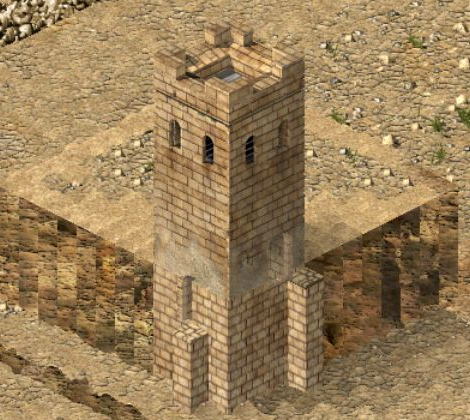
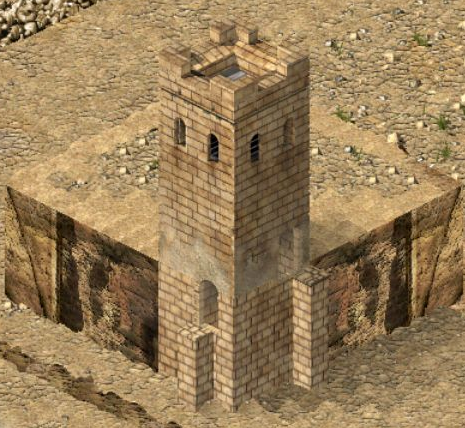
Record native cliff and doorway acceptance screenshots

diff --git a/docs/r023/README.md b/docs/r023/README.md
@@ -1,61 +1,17 @@
-# Tower doors: native examples
+# Tower doors: native examples
 
-The foreground square tower is the subject of the first two images. Each side
-chooses its highest connected wall, then the nearest connection to that side's
-centre among walls of that height. Doorways move along the face and vertically.
+Each side chooses its highest eligible connection. The connection nearest the centre breaks ties at that height. Doors follow the actual connection height and move along the face. At the extreme tiles, a doorway sits halfway between the outermost two tile positions, for4x4,5x5 and6x6 towers.
 
-Two high walls and one low wall connect to the same side. The nearer high wall
-at300,252 wins over the high wall at298,252 and the low wall at299,252.
+![Five-wide tower: half-tile inset at the outer connection](anchor-five.png)
 
-![Door at the nearer of the two high connections](nearer-high.png)
+![Round tower: doorway at the wall contact](anchor-round.png)
 
-After removing the selected high wall, the doorway follows the remaining high
-wall at298,252. The nearer low wall does not take priority. The camera moved
-between captures; compare the doorway with the connecting wall on the tower.
+Cliff-edge towers extend their existing wall masonry down the exposed face. Lower walls can supply doors in that masonry; bare terrain cannot.
 
-![Door follows the remaining off-centre high connection](farther-high.png)
+![Lower walls meet doors in the tower masonry](../store/tower-foundation.png)
 
-The smaller tower demonstrates independent sides: its high and low connections
-retain different doorway heights after loading another save.
+AI-built stair6 alone supplies a ground doorway. Raised stair1-5 are excluded, even when no other wall is present. In this native AI fixture, the left tower has stair6 and a ground doorway; the right tower has raised stair1 and no doorway.
 
-The high connection at the outermost east tile places its doorway half a tile
-inward. The low connection on the south side keeps its own height.
+![AI stair6 and raised-stair comparison](foundations/ai-stair6-current.png)
 
-![Outermost high connection inset from the tower corner](review-edge.png)
-
-A single stair6 connection supplies a doorway at ground level. Raised stair1–5
-are excluded, even when no other wall is present.
-
-![Ground-level doorway supplied by stair6 alone](review-stair6.png)
-
-![Raised stair connection without a false doorway](review-stairs.png)
-
-## AI-built stairs and a tower directly on the cliff edge
-
-The AI built both towers and their adjacent stairs from a prepared construction
-plan on initially empty tiles. On the left, stair6 alone creates the ground-level
-door. On the right, raised stair1 does not create a door. No wall supplies either
-doorway; stair6 is an AI construction tile, not a player-buildable stair option.
-
-![AI-built stair6 creates a ground door; raised stair1 does not](native-ai-stairs.png)
-
-The tower below stands directly at the plateau's corner. The high wall on the
-right and low wall on the left remain on lower ground. The exposed tower
-foundation now uses wall masonry, and both doors follow their connection heights.
-The outer high connection is inset half a tile. Terrain outside the footprint
-keeps its cliff texture.
-
-![Tower masonry and high/low doors below the tower base](foundations/rotation-0.png)
-
-![The same tower after a quarter turn](foundations/rotation-6.png)
-
-The AI also built these two towers on prepared elevated terrain. Stair6 alone
-supplies the ground door in the left foundation. The raised stair beside the
-right tower supplies no door. The fixture prepares terrain and an AI plan; the
-native AI places both towers and stairs after loading.
-
-![AI stair6 creates the lower foundation door; raised stair does not](foundations/ai-stair6.png)
-
-See [foundation validation](../../VALIDATION-TOWER-FOUNDATIONS.md) for exact
-revisions, fixture values, performance and limits. These are native captures,
-with no explanatory overlays or added in-game panels.
+[Current anchor, ordering, native tests and cost](../../VALIDATION-DOOR-DRAW-ORDER.md). Earlier screenshots in this directory are historical evidence, not the current alignment acceptance.

diff --git a/README.md b/README.md
@@ -3,8 +3,8 @@
 Seven optional fixes for Stronghold Crusader 1.41, using the game's existing
 controls, text areas and artwork.
 
-Version 0.1.1 adds concise descriptions and cropped screenshots to the Store and
-installed-extension viewers in all nine languages. Game patches are unchanged.
+The next patch corrects tower-door alignment and draw order, and completes cliff
+texture mapping across both faces. Updated native screenshots show the changes.
 See the [short description](locale/description-en.md).
 
 - **Show lobby map descriptions:** keeps custom descriptions visible when
@@ -60,20 +60,17 @@ Exposed cliffs beneath tower footprints use the current wall textures. Lower
 connections create doors at their own height where that masonry backs the door.
 Bare terrain and raised stairs do not supply doors.
 
-![Masonry under a cliff-edge tower with doors at the lower wall heights](docs/r023/foundations/rotation-0.png)
+![Masonry under a cliff-edge tower with doors at the lower wall heights](docs/store/tower-foundation.png)
 
-![AI-built stair6 alone creates a ground door in the left tower foundation](docs/r023/foundations/ai-stair6.png)
+![AI-built stair6 alone creates a ground door in the left tower foundation](docs/r023/foundations/ai-stair6-current.png)
 
-![The nearer of two high wall connections is selected](docs/r023/nearer-high.png)
+If the selected high connection is removed, the door follows another high
+connection before considering a lower one. The nearest-to-centre rule breaks
+ties only between connections at the same height.
 
-After removing that connection, the door follows the remaining high wall even
-though a low wall is nearer the centre. The camera moved between these captures.
-
-![The door follows the remaining off-centre high wall](docs/r023/farther-high.png)
-
-See [the native gallery](docs/r023/README.md) for the selected wall coordinates.
+See [the native gallery](docs/r023/README.md) for the half-tile inset on wider towers.
 Selection uses the game's existing connection refresh; warm drawing reads a
-cache without rescanning walls. The measured added draw cost was about 0.026 ms for
+cache without rescanning walls. The measured added draw cost was about 0.024 ms for
 1000 synthetic tower records. Foundation textures reuse the existing graphics
 refresh and drawing pass. See [foundation validation](VALIDATION-TOWER-FOUNDATIONS.md)
 for method and limits.
@@ -84,13 +81,13 @@ for method and limits.
 
 ### Cliff textures
 
-Cliff textures follow the direction of each face in all four map orientations.
-The fix uses the existing textures and terrain graphics refresh. It adds no
-render hook, drawing pass, allocation or per-frame check.
+Cliff textures continue across both faces in all four map orientations. The fix
+uses the current texture pack and the existing drawing passes. Converted strips
+are cached; repeated tile draws do not reprocess their pixels.
 
-![Both cliff faces use the existing texture sequence after rotation](docs/cliffs/after-6.png)
+![Both cliff faces use the complete texture sequence](docs/store/cliff-textures.png)
 
-See [the comparison and validation](VALIDATION-CLIFF-TEXTURES.md).
+See [the current comparison, compatibility checks and measured cost](VALIDATION-CLIFF-UV.md).
 
 ## Validation
 

diff --git a/VALIDATION-CLIFF-UV.md b/VALIDATION-CLIFF-UV.md
@@ -1,7 +1,7 @@
 # Cliff texture source correction
 
-Native visual acceptance is pending. This document describes the tested code
-candidate, not a published update. Issue16 remains open.
+Stock native visual acceptance passes. An alternative-pack check is pending;
+this candidate is not a published update. Issue16 remains open.
 
 ## Cause
 
@@ -60,5 +60,19 @@ full-game FPS or a1000-speed simulation. Conversion occurs only on changed data.
 Private reproduction: R023/run_cliff_uv_benchmark.py and cliff-uv-benchmark/.
 Original executable SHA256:3bb0a8c1e72331b3a30a5aa93ed94beca0081b476b04c1960e26d5b45387ac5a.
 
-Remaining: final stock and alternative-pack native screenshots, four rotations,
-zoom, tower masonry composition; CI/review; focused merge;0.1.2 Store/wiki update.
+The isolated native PID23340 loaded the exactb3c276f candidate with all seven
+options, SHC1.41/UCP3.0.7, winProcHandler0.2.0 andgraphicsApiReplacer1.3.0. The
+stock cliff-corner fixture passes in all four rotations and Z zoom. Both faces
+continue the rock pattern through the corner; tower masonry and lower doors
+remain intact. Original stock GM9 stayed byte-identical on disk. Native captures
+are native-cliff-uv-stock-{0,6,4,2,zoom}.png; geometry/viewport sampling records
+zoom1/orientation2. The game closed normally and its process exited before the
+desktop was released at17:00:49.
+
+![Connected stock cliff faces](docs/store/cliff-textures.png)
+
+![Another camera orientation](docs/cliffs/connected-6.png)
+
+Remaining: alternative-pack native check; final CI/review and focused merge;
+0.1.2 Store/wiki update. Resource-swap/reset cases above are emitted-x86 tests;
+they are not a claim of a native textureSwapper UI session.

diff --git a/VALIDATION-CLIFF-TEXTURES.md b/VALIDATION-CLIFF-TEXTURES.md
@@ -1,5 +1,9 @@
 # Cliff texture direction
 
+Historical rotation-only investigation. Its visual completion claims were
+withdrawn after further native screenshots exposed skipped source pixels. See
+[the current correction and acceptance](VALIDATION-CLIFF-UV.md).
+
 Issue 16: at map orientations 2 and6, the original texture selector uses the Y
 coordinate for both cliff faces. A face running along X repeats a single strip
 instead of advancing through the texture. Orientations0 and4 already distinguish
